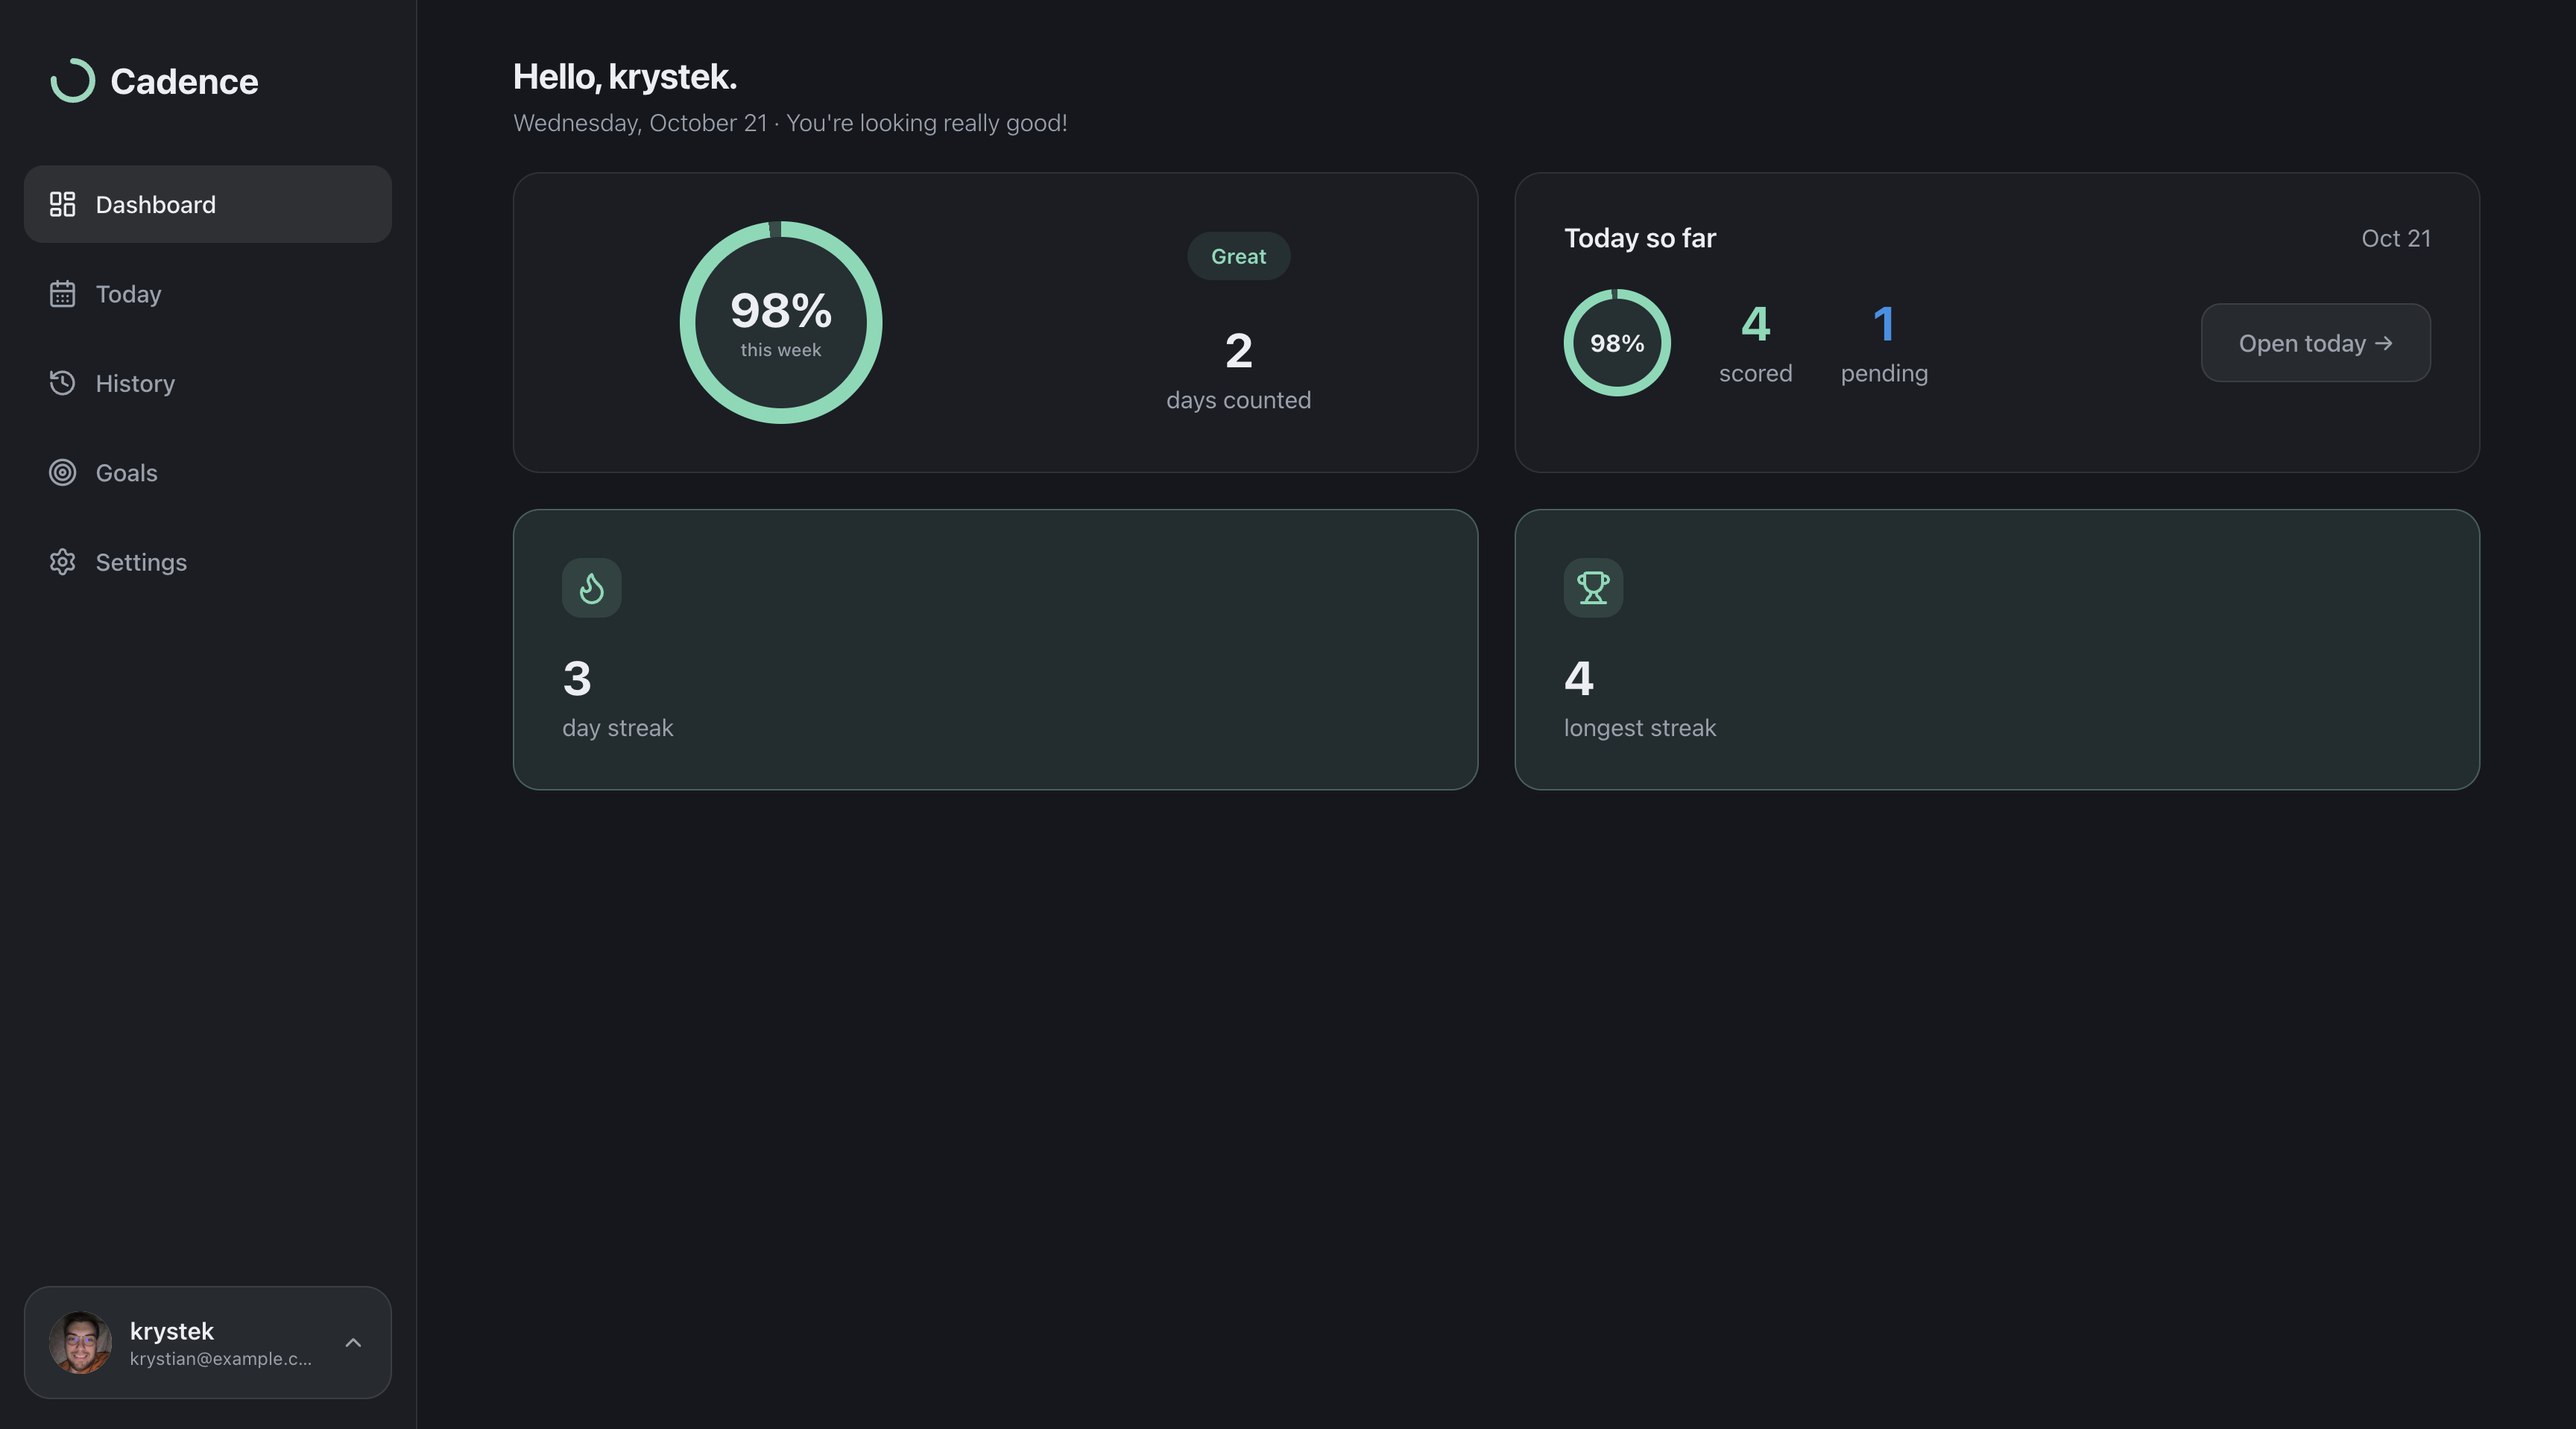
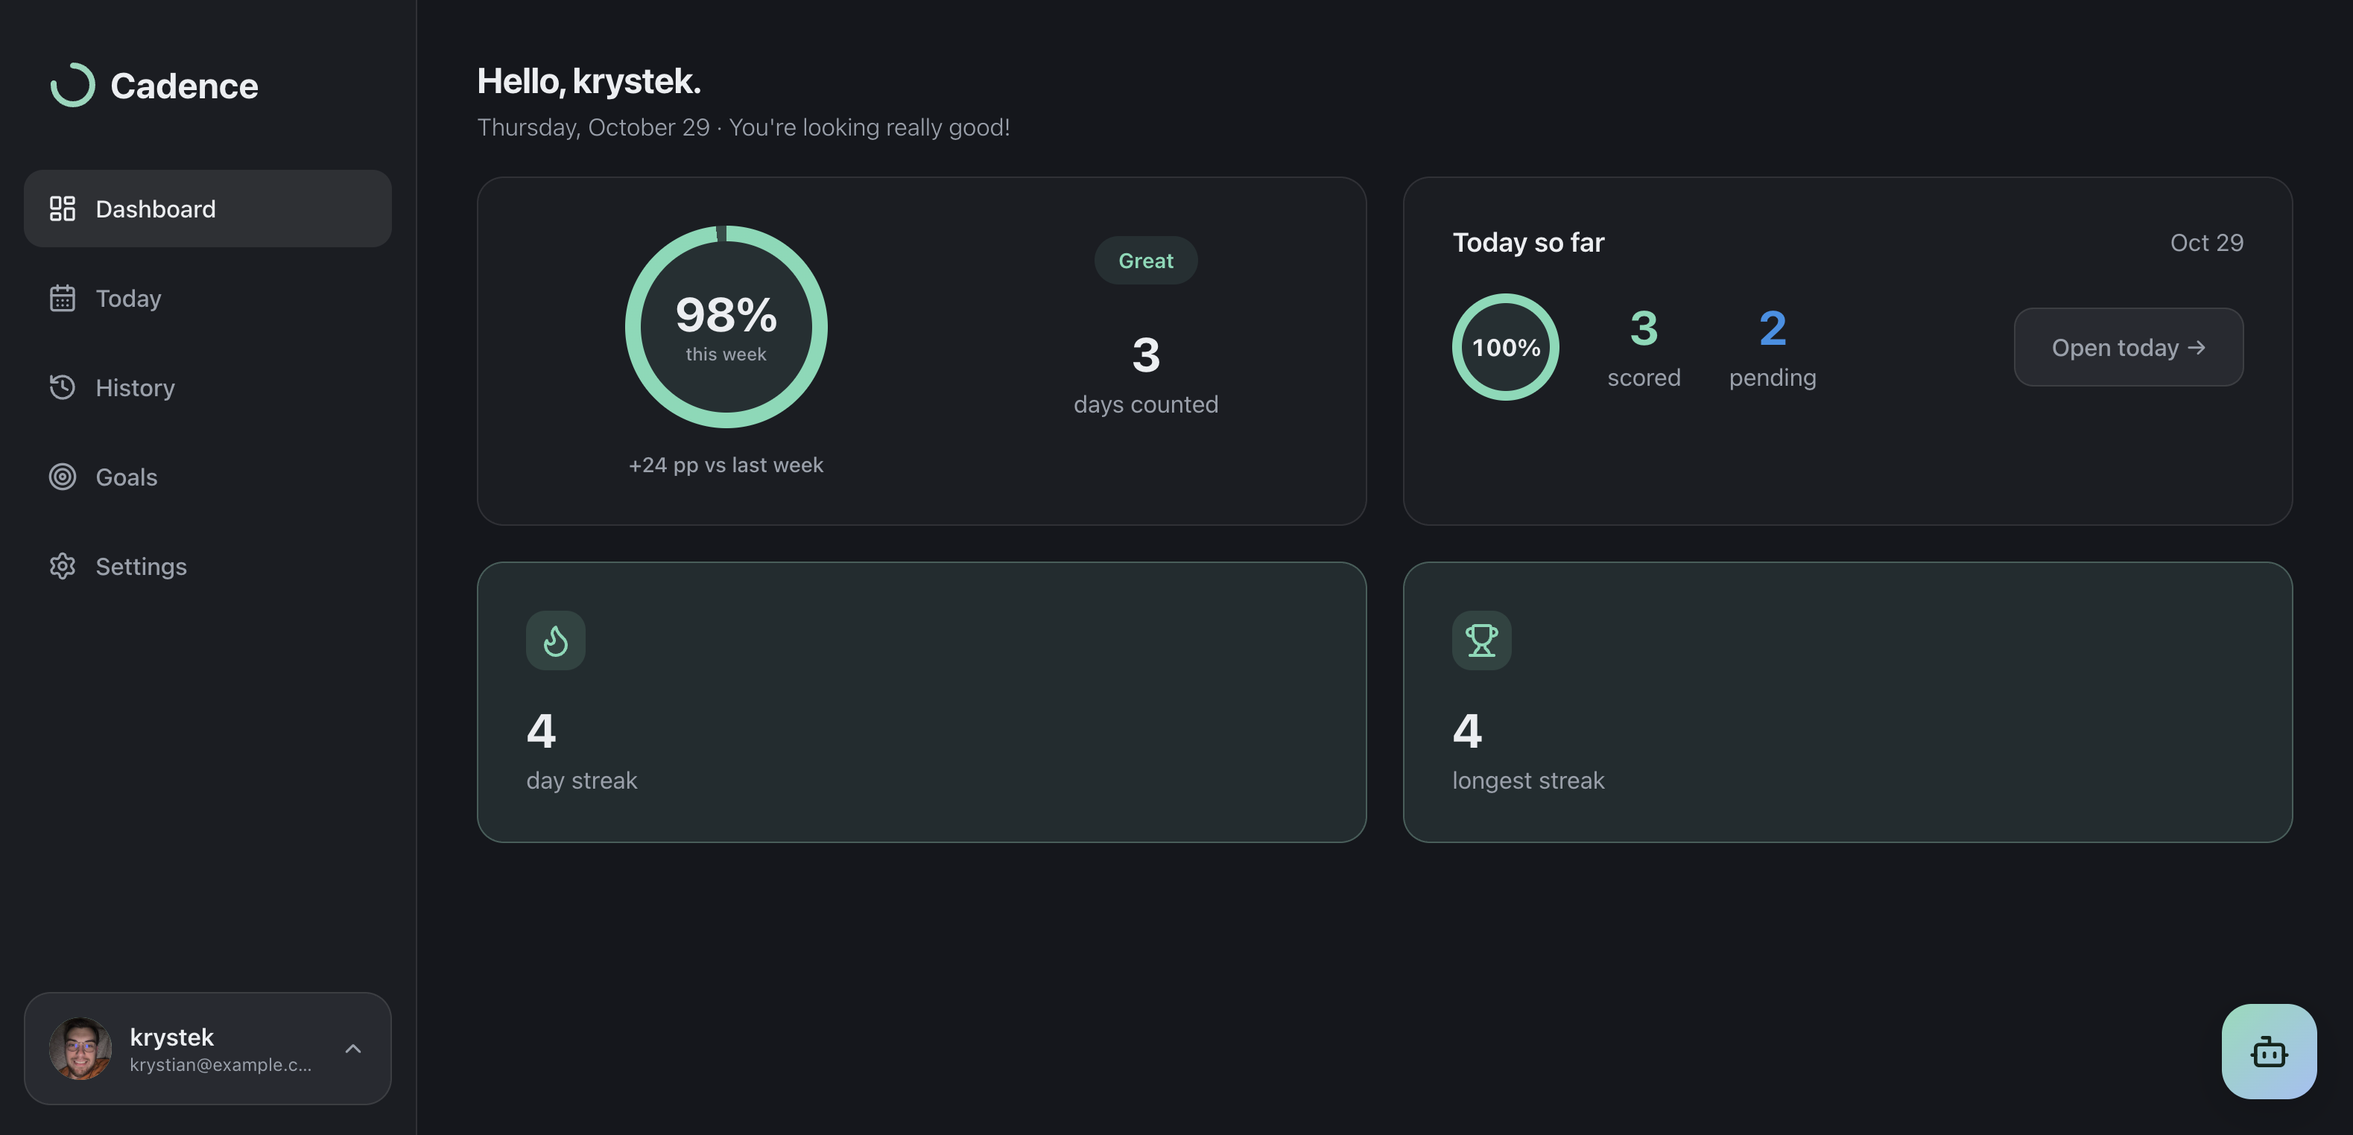
fix dimmed dashboard and add roadmap file

diff --git a/ROADMAP.md b/ROADMAP.md
@@ -1,0 +1,89 @@
+# Cadence – Product Roadmap
+
+## 1. Product Vision
+
+AI-powered Habit Tracker & Personal Coach.
+
+### Goals
+- Build a strong developer portfolio.
+- Create a useful product for real users.
+- Explore future SaaS monetization.
+
+## 2. Product Strategy
+
+### Core Pillars
+- Track – Track daily habits and goals.
+- Understand – Analyze progress and patterns.
+- Improve – AI coaching and recommendations.
+
+### Monetization
+Freemium model (future consideration).
+
+## 3. Roadmap
+
+### Phase 1 – Product Experience
+- [ ] Activity Chart
+- [ ] Historical Entries Editing
+- [ ] Google OAuth
+- [ ] Onboarding Wizard
+- [ ] Goal Templates
+
+### Phase 2 – AI Coach 2.0
+- [ ] AI Goal Creation
+- [ ] AI Goal Editing
+- [ ] AI Entry Editing
+- [ ] AI Progress Analysis
+- [ ] Personalized Recommendations
+
+### Phase 3 – Automation
+- [ ] Notification Preferences
+- [ ] Scheduler
+- [ ] RabbitMQ + Celery
+- [ ] Web Push Notifications
+- [ ] Weekly AI Reports
+
+### Phase 4 – Product Maturity
+- [ ] What's New
+- [ ] Passkeys
+- [ ] Advanced Analytics
+- [ ] Subscriptions & Payments
+
+## 4. Technical Decisions
+
+### Frontend
+- Angular 22
+- SCSS
+
+### Backend
+- FastAPI
+- PostgreSQL
+- Supabase
+
+### Planned Technologies
+- RabbitMQ
+- Celery
+- Web Push API
+- AI Tool Calling
+
+## 5. Current Focus
+
+### Next Feature
+Activity Chart
+
+### Status
+Not started
+
+## 6. Ideas & Backlog
+
+- Calendar Heatmap
+- PWA
+- AI-generated weekly insights
+- Product Analytics
+
+## 7. Decision Log
+
+### 2026-10-28
+- Cadence will evolve into an AI Habit Coach.
+- The project serves both portfolio and SaaS goals.
+- Freemium is the preferred future monetization model.
+- Activity Chart is the next planned feature.
